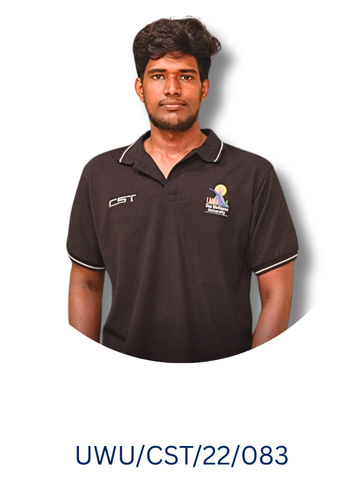
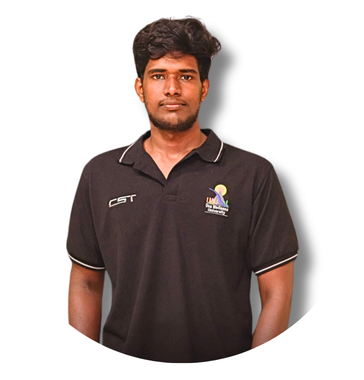
photos edited

diff --git a/src/pages/HomePage.jsx b/src/pages/HomePage.jsx
@@ -8,6 +8,10 @@ import RegisterModal from "../components/RegisterModal";
 import Footer from "../components/Footer";
 import pcGif from '../images/pc_video.gif';
 import { Link, useNavigate } from "react-router-dom";
+import sivatheevanImg from '../images/sivatheevan.png';
+import makinthanImg from '../images/makinthan.png';
+import pugazhImg from '../images/pugazh.png';
+import kowsiImg from '../images/kowsi.png';
 
 function HomePage() {
   const [showLoginModal, setShowLoginModal] = useState(false);
@@ -321,11 +325,11 @@ function HomePage() {
                 <Col md={3} className="mb-4">
                   <div className="text-center">
                     <img 
-                      src="/placeholder.svg?height=150&width=150" 
+                      src={sivatheevanImg}
                       alt="Team Member" 
                       className="rounded-circle mb-3"
                       width="150"
-                      height="150"
+                      height="155"
                     />
                     <h4>Sivatheevan</h4>
                     <p className="text-muted">Founder & CEO</p>
@@ -334,11 +338,11 @@ function HomePage() {
                 <Col md={3} className="mb-4">
                   <div className="text-center">
                     <img 
-                      src="/placeholder.svg?height=150&width=150" 
+                      src={makinthanImg} 
                       alt="Team Member" 
                       className="rounded-circle mb-3"
                       width="150"
-                      height="150"
+                      height="155"
                     />
                     <h4>Makinthan</h4>
                     <p className="text-muted">Head of Operations</p>
@@ -347,11 +351,11 @@ function HomePage() {
                 <Col md={3} className="mb-4">
                   <div className="text-center">
                     <img 
-                      src="/placeholder.svg?height=150&width=150" 
+                      src={pugazhImg}
                       alt="Team Member" 
                       className="rounded-circle mb-3"
                       width="150"
-                      height="150"
+                      height="155"
                     />
                     <h4>Pukaliny</h4>
                     <p className="text-muted">Lead PC Builder</p>
@@ -360,11 +364,11 @@ function HomePage() {
                 <Col md={3} className="mb-4">
                   <div className="text-center">
                     <img 
-                      src="/placeholder.svg?height=150&width=150" 
+                      src={kowsiImg}
                       alt="Team Member" 
                       className="rounded-circle mb-3"
                       width="150"
-                      height="150"
+                      height="155"
                     />
                     <h4>Kowsika</h4>
                     <p className="text-muted">Customer Support</p>
